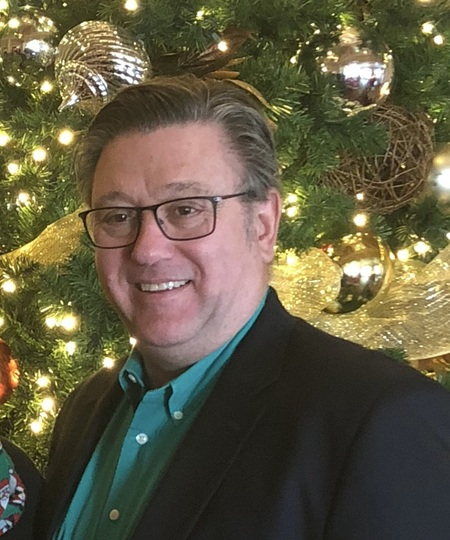
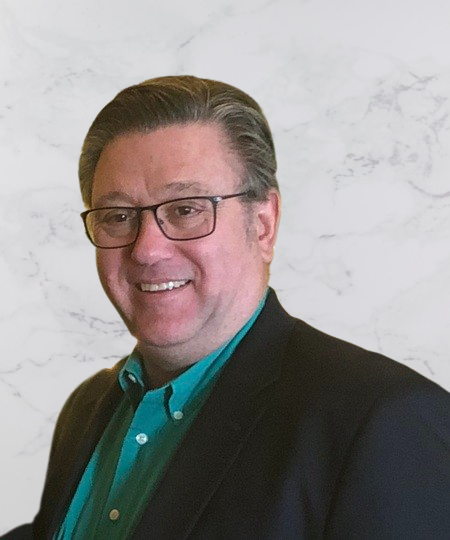
Fixed Jeremy's picture as well as Michaels

diff --git a/allstate-carpets-next/app/about/page.jsx b/allstate-carpets-next/app/about/page.jsx
@@ -73,7 +73,7 @@ const About = () => {
               <div className="mx-auto">
                 <Image
                   className="rounded-full shadow-2xl pt-1"
-                  src="/resizedjeremy.jpg"
+                  src="/Jeremy.jpeg"
                   alt="picture1"
                   width={120}
                   height={120}
